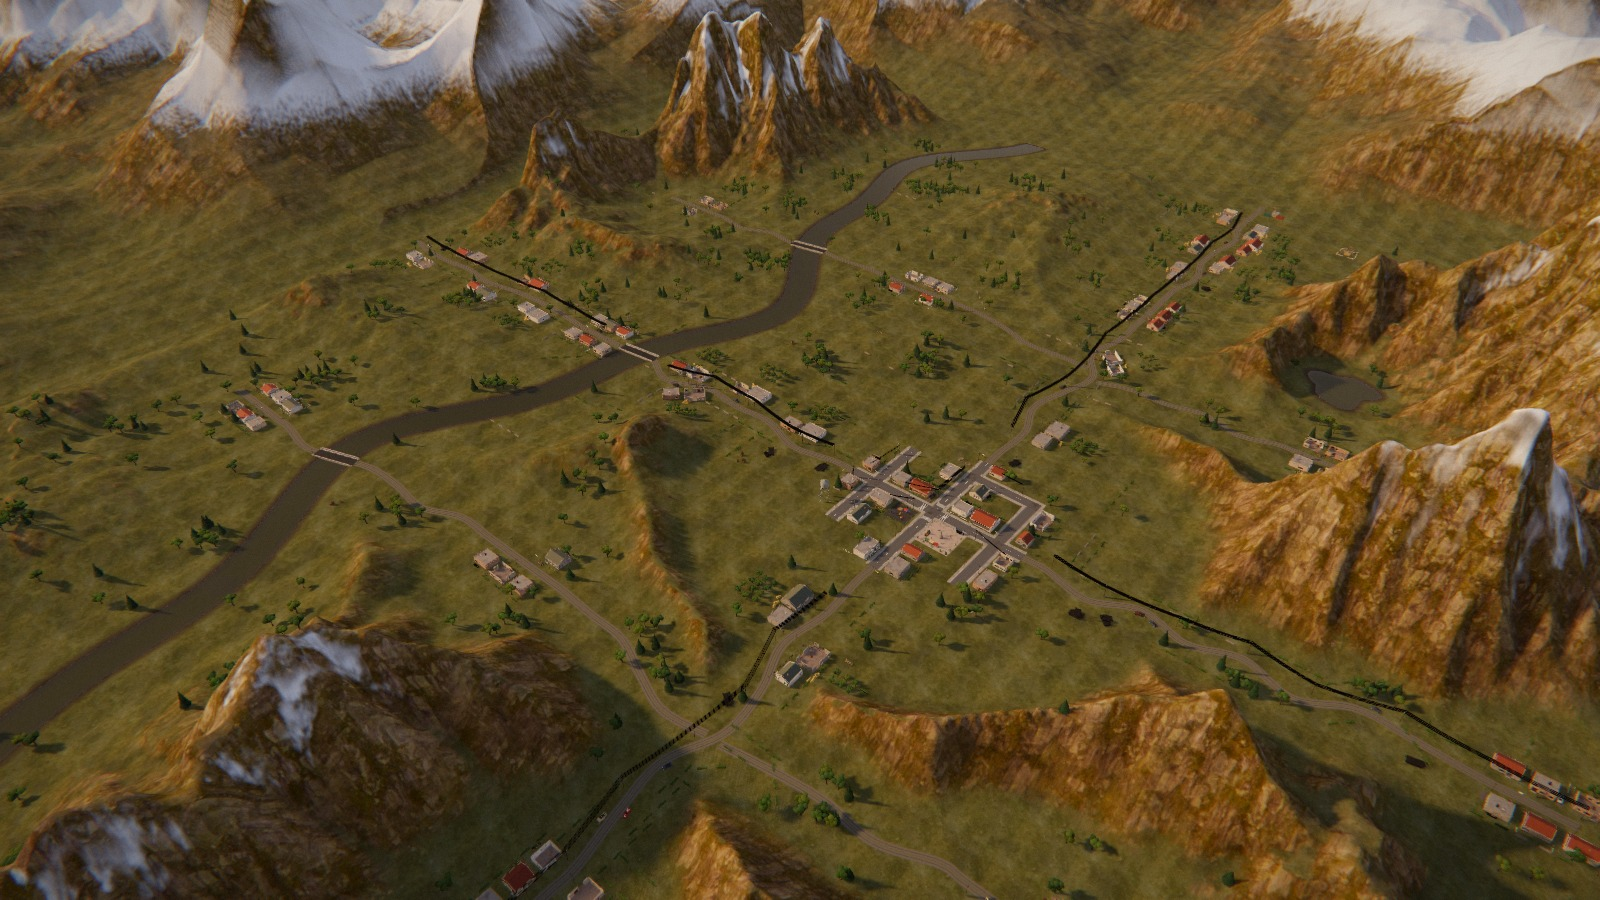
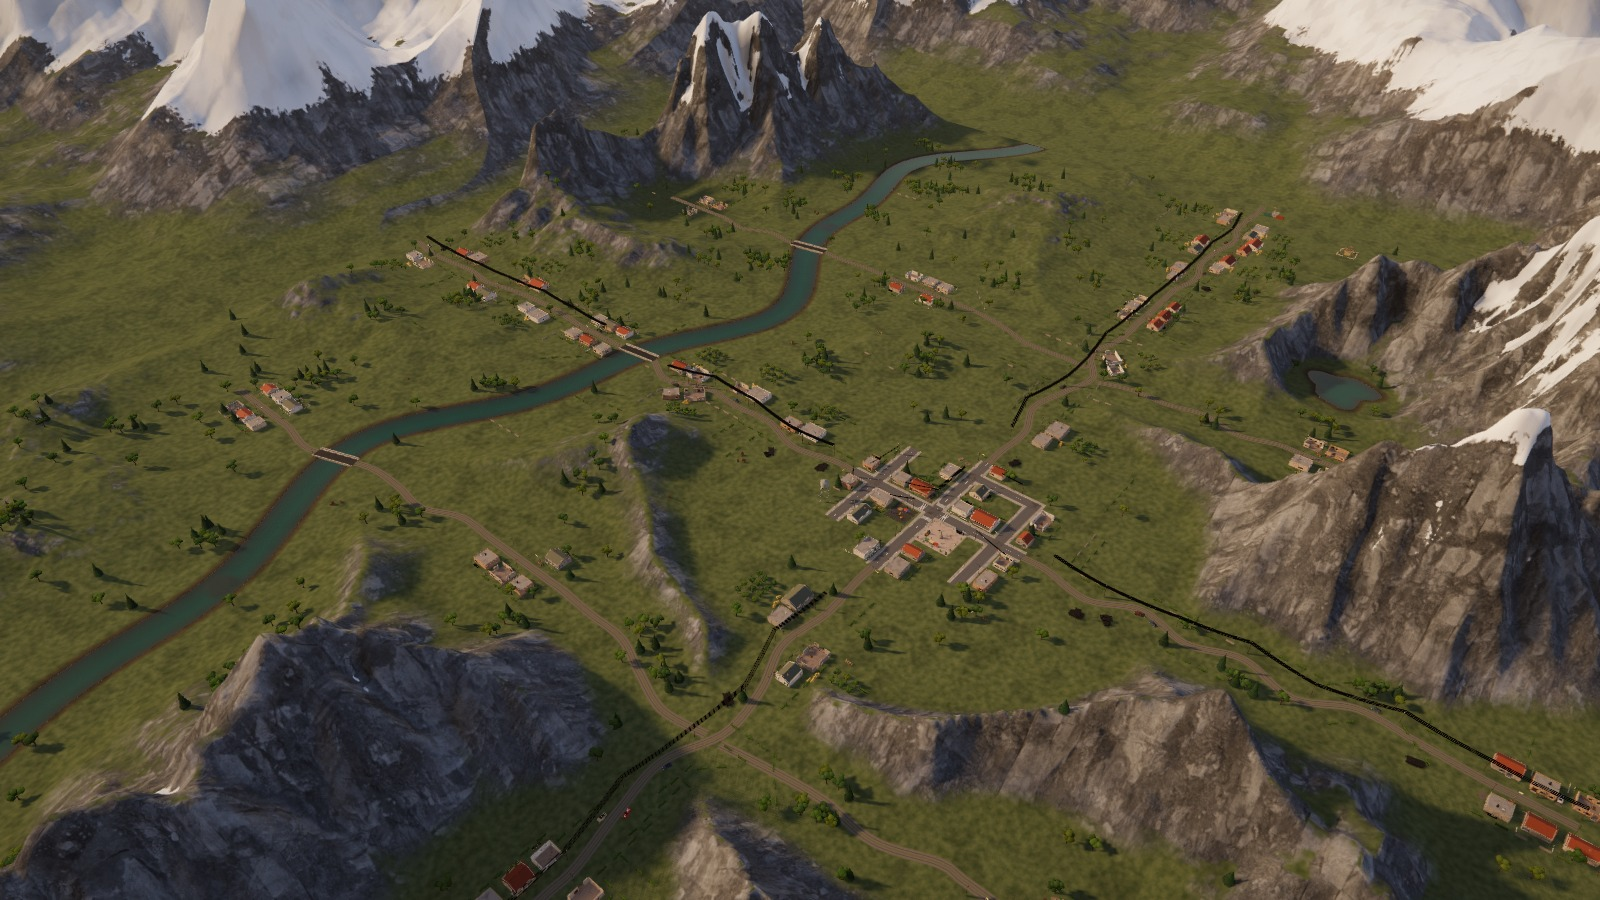
Refine alpine rock, snow and baked terrain lighting
Layer photographic cliff detail with connected snowfields and bake sky visibility and distant sun occlusion from generated relief. Preserve gameplay heights and rebuild lighting for mood changes; include source credits, regression assertions and updated in-game screenshots.

diff --git a/docs/DEVELOPMENT.md b/docs/DEVELOPMENT.md
@@ -792,8 +792,12 @@ thermal material transfer and seeded hydraulic droplet erosion. Rain cuts gullie
 reserve level corridors before the final erosion pass. This keeps existing bridge, supply and town layouts
 connected. The river network is planned for gameplay before erosion, rather than derived from the erosion simulation.
 
-Ground materials blend bundled CC0 aerial rock and moss photographs with triplanar normal maps, slope,
-elevation and curvature-driven snow. Keep mipmaps enabled in their import settings. Credits and hashes
+Ground materials blend bundled CC0 aerial rock, fractured stone and moss photographs with triplanar normal
+maps and connected snowfields. `Landform.bake_surface()` samples eight horizon bearings out to 128 m
+on an 8 m grid, baking sky visibility and broad concavity. A third channel traces toward the sun out to
+512 m, extending ridge shadows beyond the live shadow cascades. The bake rebuilds when the lighting
+mood changes and never changes geology or simulation data. Moving-object shadows, weather and crater
+normals remain live. Keep mipmaps enabled in their import settings. Credits and hashes
 are in `assets/terrain/`. Outside the playable boundary a coarse, non-interactive mountain backdrop blends
 into the map edge; it is scenery only and does not enter navigation, replication or combat.
 

diff --git a/changelog/unreleased/mountain-battlefields.md b/changelog/unreleased/mountain-battlefields.md
@@ -18,7 +18,8 @@ caption = "Looking through the valley toward the snowy ridges."
 +++
 
 - Mountains, hills and valleys generate from the battle seed. Towns, starting bases, roads and river crossings retain usable valley corridors, with forests on lower ground.
-- Photographic moss and stone surfaces follow the slopes. Rainfall erosion cuts gullies, snow gathers on high ground, and angled sunlight casts shadows across the ridges.
+- Layered photographic rock, cool shaded gullies and connected snowfields give the mountains an Alpine appearance. Sky visibility and distant ridge shadows are baked into the terrain, updating when the lighting mood changes.
+- Alpine rivers have blue-green water, and distant ridges fade into atmospheric haze.
 - Troops and vehicles follow the terrain and avoid slopes they cannot climb. Ridges obstruct shots and observation; helicopters clear rising ground and land at the correct elevation.
 - Construction checks the whole footprint. Trenches, craters, fires, targeting and the minimap follow the landscape.
 - Multiplayer joiners receive the same terrain as the host, and battle recordings preserve it when seeking forward or backward.

diff --git a/docs/FEATURES.md b/docs/FEATURES.md
@@ -544,6 +544,7 @@ catalogue entry in `MissionList.LIST`, a setup function and an autopilot functio
   thermal weathering and seeded rainfall erosion shape the relief. Roads, bridges, starting bases and settlements
   occupy graded valley corridors; forests stay below the snow line and off steep faces.
 - Moss and soil blend into exposed stone on slopes, with layered rock detail and snow on high sheltered ground.
+  Baked sky visibility and distant sun shadows deepen the gullies, rebuilding when the lighting mood changes.
   Infantry and vehicles follow the ground, slow on slopes, and route around faces too steep to cross.
   Ridges block shots and enemy detection. Helicopters anticipate rising ground and land relative to the surface.
 - Construction requires a sufficiently level footprint. Trenches, shell holes, fires, selection and targeting

diff --git a/assets/terrain/LICENSE.md b/assets/terrain/LICENSE.md
@@ -3,6 +3,9 @@
 [Aerial Rocks 02](https://polyhaven.com/a/aerial_rocks_02) and
 [Aerial Grass Rock](https://polyhaven.com/a/aerial_grass_rock), by Rob Tuytel / Poly Haven.
 
+[Rock Face 03](https://polyhaven.com/a/rock_face_03), photographed by Dario Barresi
+and processed by Rico Cilliers / Poly Haven.
+
 Licensed under [CC0 1.0 Universal](https://creativecommons.org/publicdomain/zero/1.0/).
 Poly Haven license: https://polyhaven.com/license
 
